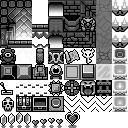
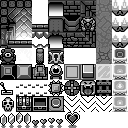
moved key and map sprites into projectiles sheet, out of dungeon sheet. updated gameObject.type to include chestGold, chestKey, chestMap. updated GameObjAnimListManager to handle chestGold, chestKey, chestMap sprites. updated GameObjFunctions.SetType to handle new chest cases. updated interactionFun

Changed region(s): [[0.5, 0.375, 0.75, 0.5]]

diff --git a/DungeonRun/Classes/InteractionFunctions.cs b/DungeonRun/Classes/InteractionFunctions.cs
@@ -75,7 +75,10 @@ namespace DungeonRun
 
                 if(Actor.state == Actor.State.Interact)
                 {
-                    if (Obj.type == GameObject.Type.Chest)
+
+
+
+                    if (Obj.type == GameObject.Type.ChestGold)
                     {
                         GameObjectFunctions.SetType(Obj, GameObject.Type.ChestEmpty);
                         Assets.sfxChestOpen.Play();
@@ -86,6 +89,32 @@ namespace DungeonRun
                         //play an explosion particle to show the chest was opened
                         GameObjectFunctions.SpawnParticle(GameObject.Type.ParticleExplosion, Obj.compSprite.position);
                     }
+                    else if (Obj.type == GameObject.Type.ChestKey)
+                    {
+                        GameObjectFunctions.SetType(Obj, GameObject.Type.ChestEmpty);
+                        Assets.sfxChestOpen.Play();
+                        //reward hero here with chest's contents
+                        GameObjectFunctions.SpawnParticle(GameObject.Type.ParticleReward50Gold, Actor.compSprite.position + new Vector2(0, -14));
+                        //set actor into reward state
+                        Actor.state = Actor.State.Reward;
+                        //play an explosion particle to show the chest was opened
+                        GameObjectFunctions.SpawnParticle(GameObject.Type.ParticleExplosion, Obj.compSprite.position);
+                    }
+                    else if (Obj.type == GameObject.Type.ChestMap)
+                    {
+                        GameObjectFunctions.SetType(Obj, GameObject.Type.ChestEmpty);
+                        Assets.sfxChestOpen.Play();
+                        //reward hero here with chest's contents
+                        GameObjectFunctions.SpawnParticle(GameObject.Type.ParticleReward50Gold, Actor.compSprite.position + new Vector2(0, -14));
+                        //set actor into reward state
+                        Actor.state = Actor.State.Reward;
+                        //play an explosion particle to show the chest was opened
+                        GameObjectFunctions.SpawnParticle(GameObject.Type.ParticleExplosion, Obj.compSprite.position);
+                    }
+
+
+
+
                 }
 
                 #endregion

diff --git a/DungeonRun/Classes/GameObjectAnimListManager.cs b/DungeonRun/Classes/GameObjectAnimListManager.cs
@@ -83,10 +83,15 @@ namespace DungeonRun
 
                 #region Interactive Objects
 
-                //Chest
+                //ChestGold,
+                new List<Byte4> { new Byte4(1, 6, 0, 0) },
+                //ChestKey,
+                new List<Byte4> { new Byte4(1, 6, 0, 0) },
+                //ChestMap,
                 new List<Byte4> { new Byte4(1, 6, 0, 0) },
                 //ChestEmpty
                 new List<Byte4> { new Byte4(2, 6, 0, 0) },
+
                 //BlockDraggable
                 new List<Byte4> { new Byte4(2, 4, 0, 0) },
                 //BlockDark
@@ -159,6 +164,7 @@ namespace DungeonRun
                 new List<Byte4> { new Byte4(5, 0, 0, 0), new Byte4(6, 0, 0, 0), new Byte4(7, 0, 0, 0) },
                 //ParticleHitSparkle
                 new List<Byte4> { new Byte4(8, 1, 0, 0), new Byte4(9, 1, 0, 0) },
+
                 //ParticleReward50Gold
                 new List<Byte4> { new Byte4(6, 2, 0, 0) },
 

diff --git a/DungeonRun/Classes/GameObjectFunctions.cs b/DungeonRun/Classes/GameObjectFunctions.cs
@@ -93,7 +93,6 @@ namespace DungeonRun
         }
 
 
-
         
         public static void SpawnProjectile(GameObject.Type Type, Actor Actor)
         {   //a projectile always has a direction, so it inherit's actor's direction
@@ -254,7 +253,10 @@ namespace DungeonRun
 
             #region Interactive Objects
 
-            else if (Type == GameObject.Type.Chest || Type == GameObject.Type.ChestEmpty)
+            else if (Type == GameObject.Type.ChestGold ||
+                Type == GameObject.Type.ChestKey ||
+                Type == GameObject.Type.ChestMap ||
+                Type == GameObject.Type.ChestEmpty)
             {
                 Obj.compCollision.offsetX = -7; Obj.compCollision.offsetY = -3;
                 Obj.compCollision.rec.Width = 14; Obj.compCollision.rec.Height = 11;

diff --git a/DungeonRun/Classes/DungeonFunctions.cs b/DungeonRun/Classes/DungeonFunctions.cs
@@ -262,7 +262,12 @@ namespace DungeonRun
                     (Room.size.x - 1) * 16 + pos.X + 8,
                     1 * 16 + pos.Y + 8);
                 objRef.direction = Direction.Down;
-                GameObjectFunctions.SetType(objRef, GameObject.Type.Chest);
+                GameObjectFunctions.SetType(objRef, GameObject.Type.ChestGold);
+
+                //create a big key chest
+
+                //create a map chest
+
 
                 //spawn enemies inside of this room
                 SpawnEnemies(Room);

diff --git a/DungeonRun/Classes/GameObject.cs b/DungeonRun/Classes/GameObject.cs
@@ -70,7 +70,9 @@ namespace DungeonRun
 
             #region Interactive Objects
 
-            Chest,
+            ChestGold,
+            ChestKey,
+            ChestMap,
             ChestEmpty,
 
             BlockDraggable, //blocking, mobile
@@ -123,6 +125,7 @@ namespace DungeonRun
             ParticleExplosion,
             ParticleSmokePuff,
             ParticleHitSparkle,
+
             ParticleReward50Gold,
 
             #endregion
